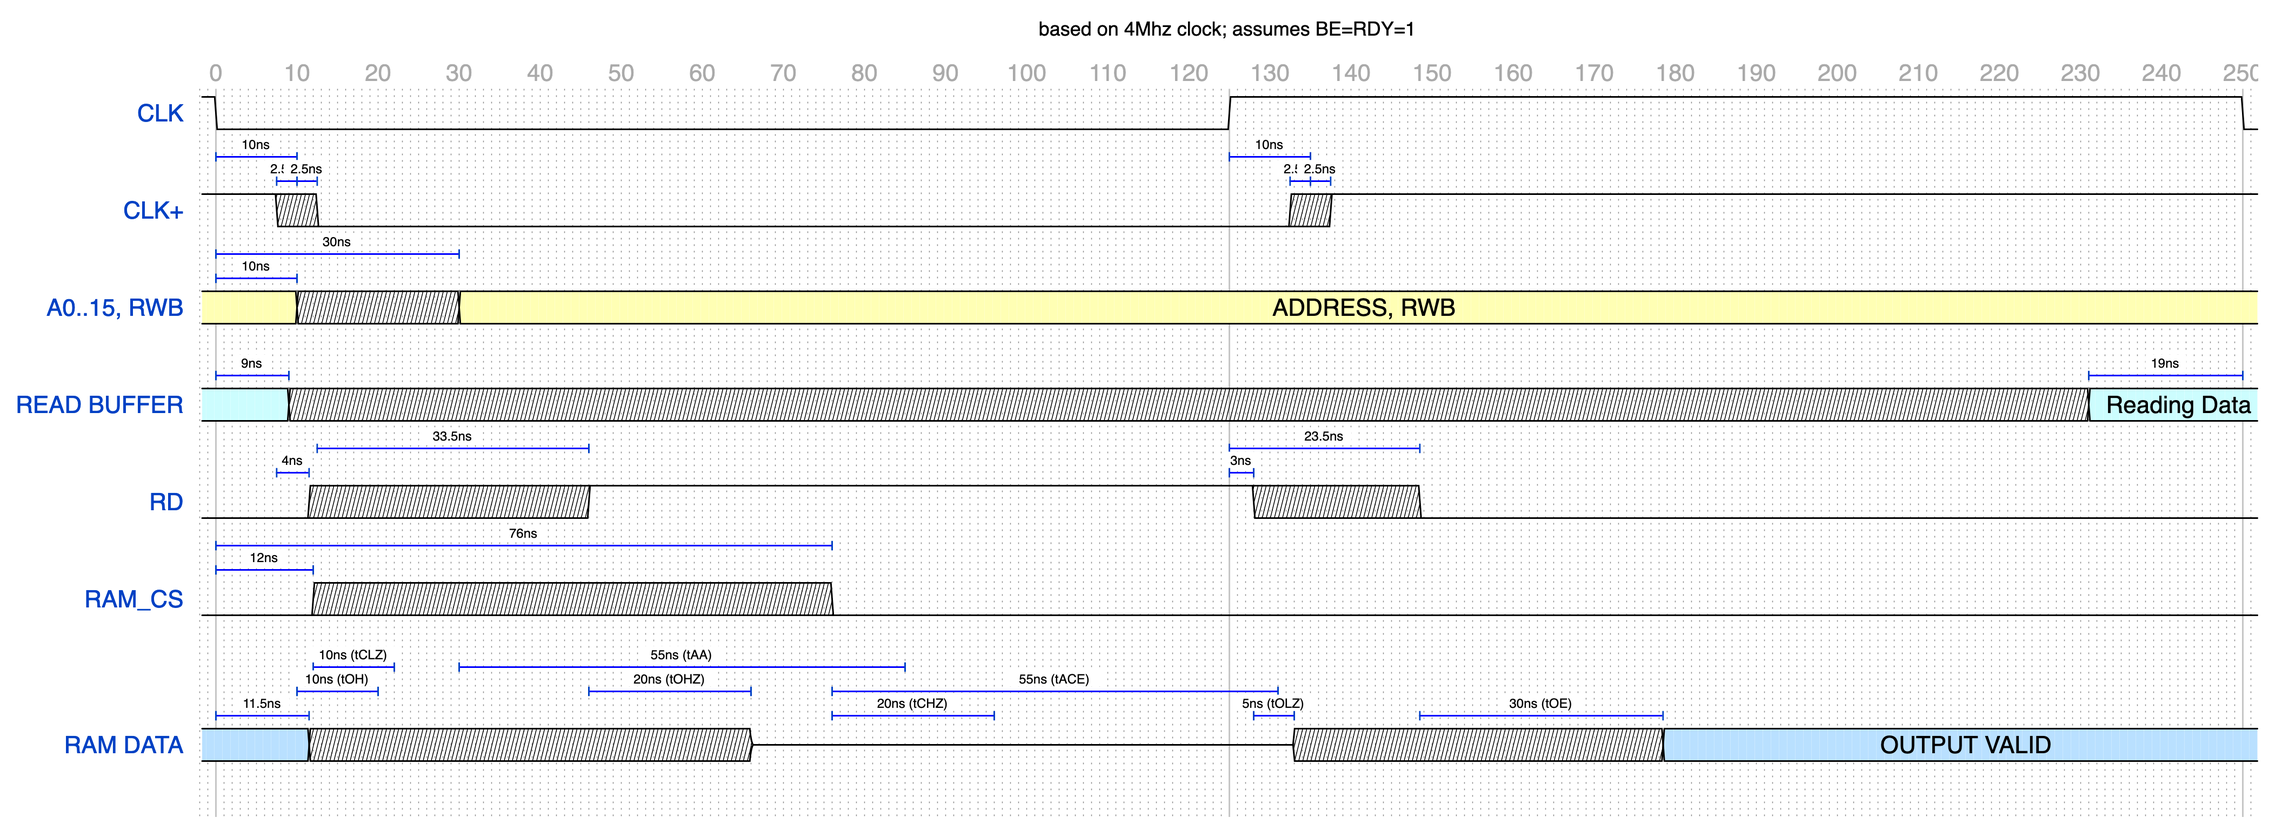
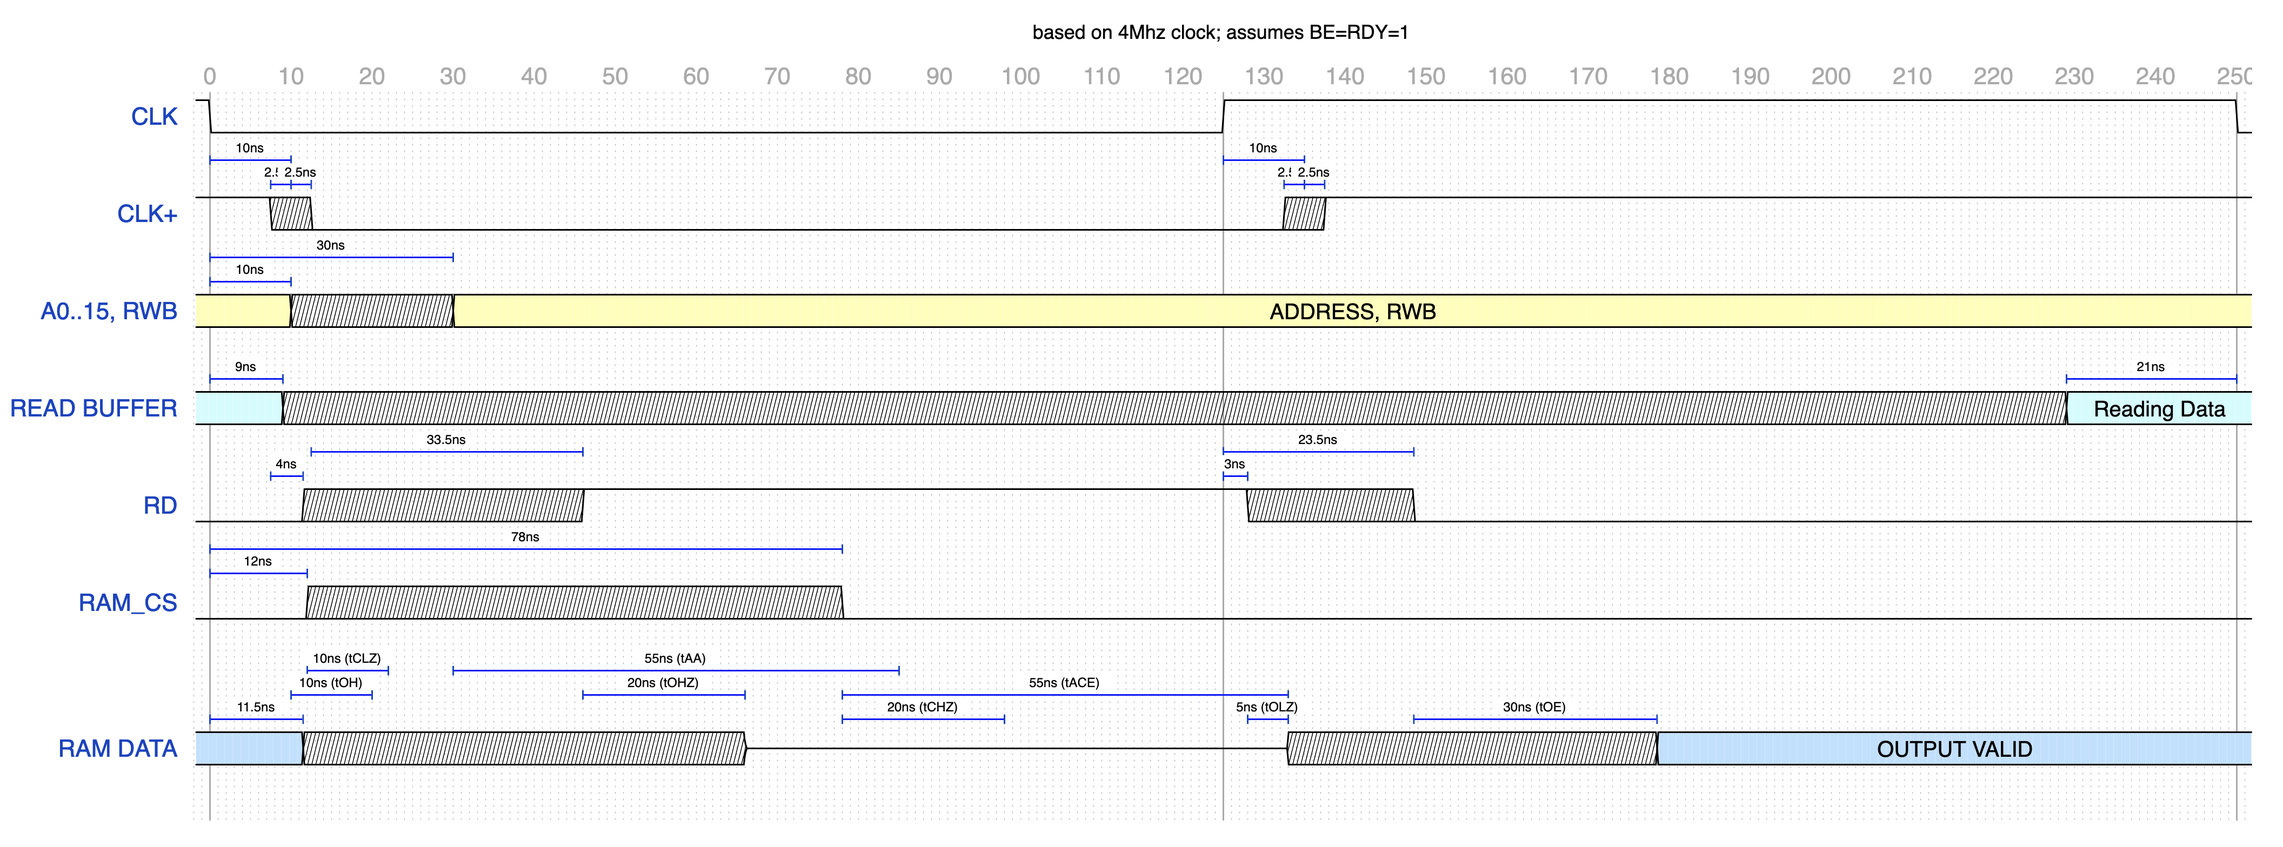
Snapshot ep 24 work

diff --git a/README.md b/README.md
@@ -24,13 +24,13 @@ The goals of the YouTube series are to provide a good description of all the des
 
 [![Top-level schematic](./schematics/main.png)](./schematics/main.png)
 
-### Clock module
+### CPU breakout
 
-[![Clock module](./schematics/clock.png)](./schematics/clock.png)
+[![CPU breakout](./schematics/breakout.png)](./schematics/breakout.png)
 
-### Reset module
+### Clock and Reset module
 
-[![Reset module](./schematics/reset.png)](./schematics/reset.png)
+[![Clock and Reset module](./schematics/clock_reset.png)](./schematics/clock_reset.png)
 
 ### Glue Logic module
 
@@ -44,13 +44,9 @@ The goals of the YouTube series are to provide a good description of all the des
 
 [![Memory module](./schematics/memory.png)](./schematics/memory.png)
 
-### GPIO module
+### Debug Clock module
 
-[![GPIO module](./schematics/gpio.png)](./schematics/gpio.png)
-
-### Peripherals module
-
-[![Peripherals module](./schematics/peripherals.png)](./schematics/peripherals.png)
+[![Debug Clock module](./schematics/debug_clock.png)](./schematics/debug_clock.png)
 
 ### Debug module
 
@@ -59,6 +55,14 @@ The goals of the YouTube series are to provide a good description of all the des
 ### Monitor module
 
 [![Monitor module](./schematics/monitor.png)](./schematics/monitor.png)
+
+### GPIO module
+
+[![GPIO module](./schematics/gpio.png)](./schematics/gpio.png)
+
+### Peripherals module
+
+[![Peripherals module](./schematics/peripherals.png)](./schematics/peripherals.png)
 
 ### Tester module
 
@@ -238,7 +242,7 @@ Uses [custom fork](https://github.com/adrienkohlbecker/wavedrom)
     { nodes: ['..K(33)C(92)Σ(30)I', '..Ρ(10)L(23)C(92)M(10)N'], phase: 0.90 },
     { name: 'CPU D0-D7 (write)', wave: '6(12)x(23)7(102)x(20)6(97)', data: ['Wr Data', 'Bank Address', 'Write Data'], phase: 0.20 },
     { nodes: ['...(12.5)Я(17)P(95.5)Τ(8.5)S', '...(7.5)J(2)O..(113.5)Q(1)R'], phase: 0.90 },
-    { name: 'AHC573 LE', wave: '0..(9.5)x(20)1(96.5)x(7.5)0(118.5)', node: '..(123.5)É(3.5)È.(6.5)À(1.5)Ç', phase: 0.20, nphase: 0.90, nyoffset: -6 },
+    { name: '/READ_CLOCK', wave: '0..(9.5)x(20)1(96.5)x(7.5)0(118.5)', node: '..(123.5)É(3.5)È.(6.5)À(1.5)Ç', phase: 0.20, nphase: 0.90, nyoffset: -6 },
     { nodes: ['..(34)Υ(11)Z'], phase: 0.90 },
     { nodes: ['...(33)X(1)Y', '...(9.5)T(1)U(19)V(12)W'], phase: 0.90 },
     { name: 'BA0-BA7', wave: '7..(10.5)x(33.5)7(208)', data: ['BA', 'Bank Address'], phase: 0.20 },
@@ -292,8 +296,8 @@ Uses [custom fork](https://github.com/adrienkohlbecker/wavedrom)
     { name: 'AHCT245 OUT', wave: '2..(11)x(36.5)2(202.5)..', data: ['DIR valid', 'DIR valid'], phase: 0.20 },
     { nodes: ['...(11)(2.5)І(16.5)Л(97)(11)(2.5)Ѣ(15)Ц', '...(7.5)Й(2)К(116.5)(7.5)П(2)Ф'], phase: 0.9 },
     { name: 'AHCT245 OE', wave: '0..(9.5)x(19.5)1(105.5)x(18)0(97.5)..', data: ['RWB', 'RWB'], phase: 0.20 },
-    { node: '...(9.5)Ч(1)Ш(18.5)Щ(17.5)Ъ(88)Ы(1.5)Ь(16.5)Э(17)Ю', phase: 0.9 },
-    { name: 'AHCT245 OUT', wave: '2..(10.5)x(36)2(96)x(27)2(80.5)..', data: ['ON', 'OFF', 'ON'], phase: 0.20 },
+    { node: '...(9.5)Ч(1)Ш(18.5)Щ(17.5)Ъ(88)Ы(1)Ь(17)Э(17)Ю', phase: 0.9 },
+    { name: 'AHCT245 OUT', wave: '2..(10.5)x(36)2(89)x(34)2(80.5)..', data: ['ON', 'OFF', 'ON'], phase: 0.20 },
     { nodes: ['..Ε(10)Δ', '..(10)Φ(1)Έ(219)Ζ(11)Η(10)Ή'], phase: 0.9 },
     { name: 'AHCT245 OUT (read)', wave: '2..(9)x(220)2(21)..', data: ['Rd Data', 'Read Data'], phase: 0.20 },
     { node: '..Θ(10)Ι(1)Ί(114)Κ(30)Λ(11)Μ', phase: 0.9 },
@@ -310,7 +314,7 @@ Uses [custom fork](https://github.com/adrienkohlbecker/wavedrom)
     'Б+Г 10ns', 'Ύ+Д 30ns',
     'Ё+Ж 1ns', 'З+И 17.5ns',
     'Й+К 2ns', 'І+Л 16.5ns', 'П+Ф 2ns', 'Ѣ+Ц 15ns',
-    'Ч+Ш 1ns', 'Щ+Ъ 17.5ns', 'Ы+Ь 1.5ns', 'Э+Ю 17ns',
+    'Ч+Ш 1ns', 'Щ+Ъ 17.5ns', 'Ы+Ь 1ns', 'Э+Ю 17ns',
     'Ε+Δ 10ns', 'Φ+Έ 1ns', 'Ζ+Η 11ns', 'Η+Ή 10ns',
     'Θ+Ι 10ns', 'Ι+Ί 1ns', 'Κ+Λ 30ns', 'Λ+Μ 11ns',
     'Z+R 9ns', 'P+J 21ns', 'T+Y 10.5ns', 'U+O 44.5ns'
@@ -346,21 +350,21 @@ Uses [custom fork](https://github.com/adrienkohlbecker/wavedrom)
     { name: 'CLK', wave: '1.0(100)1.', phase: 0.20 },
     { nodes: ['..Ѳ(30)Ѵ', '..Α(10)Γ'], phase: 0.45 },
     { name: 'A[0..15]', wave: '3..(10)x(20)3(70)..', data: ['', 'Address'], phase: 0.20 },
-    { nodes: ['..Β(44.5)Ξ', '..Ν(11.5)Ά'], phase: 0.45 },
-    { name: 'A[16..23]', wave: '7..(11.5)x(33)7(57.5)', data: ['', 'Bank Address'], phase: 0.20 },
-    { nodes: ['..Ο(70)Ό', '..A(12.5)D'], phase: 0.45 },
-    { name: 'EXTRAM_CS', wave: '8..(12.5)x(57.5)8(32)', data: ['', 'Extended RAM'], phase: 0.20 },
-    { nodes: ['..B(76)Π', '..E(12)F'], phase: 0.45 },
-    { name: 'ROM_CS', wave: '8..(12)x(64)8(26)', data: ['', 'ROM'], phase: 0.20 },
-    { nodes: ['..G(79)H', '..Ρ(11)L'], phase: 0.45 },
-    { name: 'IO_CS', wave: '8..(11)x(68)8(23)', data: ['', 'I/O'], phase: 0.20 },
-    { nodes: ['..K(76)C', '..M(12)N'], phase: 0.45 },
-    { name: 'RAM_CS', wave: '8..(12)x(64)8(26)', data: ['', 'RAM'], phase: 0.20 },
+    { nodes: ['..Β(44)Ξ', '..Ν(10.5)Ά'], phase: 0.45 },
+    { name: 'A[16..23]', wave: '7..(10.5)x(33.5)7(58)', data: ['', 'Bank Address'], phase: 0.20 },
+    { nodes: ['..Ο(69.5)Ό', '..A(11.5)D'], phase: 0.45 },
+    { name: 'EXTRAM_CS', wave: '8..(11.5)x(58)8(32.5)', data: ['', 'Extended RAM'], phase: 0.20 },
+    { nodes: ['..B(78)Π', '..E(12)F'], phase: 0.45 },
+    { name: 'ROM_CS', wave: '8..(12)x(66)8(24)', data: ['', 'ROM'], phase: 0.20 },
+    { nodes: ['..G(81)H', '..Ρ(11)L'], phase: 0.45 },
+    { name: 'IO_CS', wave: '8..(11)x(70)8(21)', data: ['', 'I/O'], phase: 0.20 },
+    { nodes: ['..K(78)C', '..M(12)N'], phase: 0.45 },
+    { name: 'RAM_CS', wave: '8..(12)x(66)8(24)', data: ['', 'RAM'], phase: 0.20 },
   ],
   edge: [
-    'Ѳ+Ѵ 30ns', 'Α+Γ 10ns', 'Ν+Ά 11.5ns', 'Β+Ξ 44.5ns', 'Ο+Ό 70ns',
-    'A+D 12.5ns', 'B+Π 76ns', 'E+F 12ns', 'G+H 79ns',
-    'Ρ+L 11ns', 'K+C 76ns', 'M+N 12ns',
+    'Ѳ+Ѵ 30ns', 'Α+Γ 10ns', 'Ν+Ά 10.5ns', 'Β+Ξ 44ns', 'Ο+Ό 69.5ns',
+    'A+D 11.5ns', 'B+Π 78ns', 'E+F 12ns', 'G+H 81ns',
+    'Ρ+L 11ns', 'K+C 78ns', 'M+N 12ns',
   ],
   config: {
     skin: 'narrower',
@@ -395,20 +399,20 @@ Uses [custom fork](https://github.com/adrienkohlbecker/wavedrom)
     { name: 'CPU ADDR & RWB', wave: '7....x(25)9(15)x(25)7(15)x(2)', data:['ON', 'OFF', 'ON'], phase: 0.20 },
     { nodes: ['.....Ά(8.5)Ν(31.5)M(8.5)N', '.....Α(1)Γ(39)K(1)C'], phase: 0.45 },
     { name: '!BE', wave: '0.....(1)x(7.5)1(32.5)x(7.5)0(32.5)x(1)', phase: 0.20 },
-    { nodes: ['......(8.5)Β(12)Ξ(28)J(10)O', '......(1)Ο(1.5)Ό(38.5)Σ(2)I'], phase: 0.45 },
-    { name: 'AC563 OUT', wave: '7.....(2.5)x(18)9(22.5)x(15.5)7(23.5)', data:['ON', 'OFF', 'ON'], phase: 0.20 },
-    { nodes: ['.....A(8.5)D(31.5)Q(8.5)R', '.....B(1)Π(39)Я(1)P'], phase: 0.45 },
-    { name: 'ACT245 OE', wave: '0.....(1)x(7.5)1(32.5)x(7.5)0(32.5)x(1)', phase: 0.20 },
-    { nodes: ['......(8.5)E(11)F(29)T(12)U', '......(1)G(1)H(39)Τ(1.5)S'], phase: 0.45 },
-    { name: 'ACT245 OUT', wave: '7.....(2)x(17.5)9(23)x(18)7(21.5)', data:['ON', 'OFF', 'ON'], phase: 0.20 },
+    { nodes: ['......(8.5)Β(12)Ξ(28)J(12)O', '......(1)Ο(1)Ό(39)Σ(1)I'], phase: 0.45 },
+    { name: 'AHC573 OUT', wave: '7.....(2)x(18.5)9(21.5)x(18.5)7(21.5)', data:['ON', 'OFF', 'ON'], phase: 0.20 },
+    { nodes: ['.....A(8)D(32)Q(6.5)R', '.....B(1)Π(39)Я(1)P'], phase: 0.45 },
+    { name: 'AHCT245 OE', wave: '0.....(1)x(7)1(33)x(5.5)0(34.5)x(1)', phase: 0.20 },
+    { nodes: ['......(8.5)E(17.5)F(20.5)T(17)U', '......(1)G(1)H(39)Τ(1.5)S'], phase: 0.45 },
+    { name: 'AHCT245 OUT', wave: '7.....(2)x(24)9(16.5)x(21)7(18.5)', data:['ON', 'OFF', 'ON'], phase: 0.20 },
     { nodes: ['......(8.5)V(10)W(30)Б(8)Г', '......(1)X(1)Y(39)Ύ(1)Д'], phase: 0.45 },
     { name: 'RD & WR', wave: '7.....(2)x(16.5)9(23.5)x(14.5)7(25.5)', data:['ON', 'OFF', 'ON'], phase: 0.20 },
   ],
   edge: [
-    'Ѳ+Ѵ 25ns', 'Α+Γ 1ns', 'Ά+Ν 8.5ns', 'Ο+Ό 1.5ns', 'Ξ+Β 12ns',
-    'B+Π 1ns', 'A+D 8.5ns', 'G+H 1ns','E+F 11ns',
-    'Ρ+L 25ns', 'K+C 1ns', 'M+N 8.5ns', 'Σ+I 2ns', 'J+O 10ns',
-    'Я+P 1ns', 'Q+R 8.5ns', 'Τ+S 1.5ns','T+U 12ns',
+    'Ѳ+Ѵ 25ns', 'Α+Γ 1ns', 'Ά+Ν 8.5ns', 'Ο+Ό 1ns', 'Ξ+Β 12ns',
+    'B+Π 1ns', 'A+D 8ns', 'G+H 1ns','E+F 17.5ns',
+    'Ρ+L 25ns', 'K+C 1ns', 'M+N 8.5ns', 'Σ+I 1ns', 'J+O 12ns',
+    'Я+P 1ns', 'Q+R 6.5ns', 'Τ+S 1ns','T+U 17ns',
     'V+W 10ns', 'X+Y 1ns', 'Б+Г 8ns', 'Ύ+Д 1ns',
   ],
   config: {
@@ -439,36 +443,34 @@ Uses [custom fork](https://github.com/adrienkohlbecker/wavedrom)
 ```js
 {
   signal: [
-    { name: 'CLK_IN', wave: '0..(100)x(10)1(115)x(10)0(17)', phase: 0.20 },
-    { nodes: ['...(100)Ο(5)Ό(5)G(115)H(5)R(5)P', '...(105)Ν(10)Ά(115)Β(10)Ξ'], phase: 0.9 },
-    { name: 'CLK-', wave: '0..(112.5)x(5)1(120)x(5)0..(7.5)', phase: 0.20 },
-    { nodes: ['...(112.5)Ё(2.5)Ж(2.5)S(120)T(2.5)Ћ(2.5)Δ', '...(115)L(10)K(115)M(10)Σ'], phase: 0.9 },
-    { name: 'CLK', wave: '1.0(125)1(125)0.', phase: 0.20 },
-    { nodes: ['..Θ(10)Λ(115)Њ(10)Ќ', '...(7.5)Љ(2.5)Є(2.5)Υ(120)Ю(2.5)Ψ(2.5)Ω'], phase: 0.9 },
-    { name: 'CLK+', wave: '1..(7.5)x(5)0(120)x(5)1..(112.5)', phase: 0.20 },
-    {},
-    { nodes: ['..Ε(8.5)Ι(116.5)Κ(8.5)Μ', '..Ρ(1)Τ(124)Χ(1)А'], phase: 0.9 },
-    { name: '~CLK', wave: '0..(1)x(7.5)1(117.5)x(7.5)0..(115.5)x', phase: 0.20 },
+    { name: 'CLK', wave: '1.0(50)1(50)0.', phase: 0.20 },
+    { nodes: ['...(45)Ξ(5)Ο(0.5)Ό'], phase: 0.45 },
+    { name: 'RDY_IN', wave: 'z..(45)6(5.5)z(51.5)', data: ['IN'], phase: 0.20 },
+    { nodes: ['...(50)B(10.5)Π', '...(50)E(1)F'], phase: 0.45 },
+    { name: 'RDY (registered)', wave: '4..(51)x(9.5)4(41.5)', data: ['RDY (reg)', 'RDY (reg)'], phase: 0.20 },
+    { nodes: ['...(60.5)Σ(30)I'], phase: 0.45 },
+    { name: 'RDY', wave: '3..(51)x(39.5)3(11.5)', data: ['RDY', 'RDY'], phase: 0.20 },
+    { nodes: ['..Ύ(10)Д(80)Ё(10)Ж'], phase: 0.45 },
+    { name: 'RDY (cpu in)', wave: '6..(10)z(80)6(12)', data: ['RDY', 'RDY'], phase: 0.20 },
   ],
   edge: [
-    'Ν+Ά 10ns', 'Β+Ξ 10ns', 'Ο+Ό 5ns', 'Ό+G 5ns', 'H+R 5ns', 'R+P 5ns',
-    'L+K 10ns', 'M+Σ 10ns', 'Ё+Ж 2.5ns', 'Ж+S 2.5ns', 'T+Ћ 2.5ns', 'Ћ+Δ 2.5ns',
-    'Θ+Λ 10ns', 'Њ+Ќ 10ns', 'Љ+Є 2.5ns', 'Є+Υ 2.5ns', 'Ю+Ψ 2.5ns', 'Ψ+Ω 2.5ns',
-    'Ε+Ι 8.5ns', 'Κ+Μ 8.5ns', 'Ρ+Τ 1ns', 'Χ+А 1ns'
+    'Ξ+Ο 5ns', 'Ο+Ό 0.5ns',
+    'B+Π 10.5ns', 'E+F 1ns',
+    'Σ+I 30ns (approx. measured)',
+    'Ύ+Д 10ns', 'Ё+Ж 10ns',
   ],
   config: {
-    skin: 'narrowerer',
+    skin: 'narrower',
     lines: {
       offset: 2,
-      every: 125,
-      every_muted: 10,
+      every: 50
     },
-    background: 'white',
+    background: 'white'
   },
   head: {
     tick: -2,
     every: 10,
-    text: ['tspan', { "font-size": '12px' }, 'based on 4Mhz clock']
+    text: ['tspan', { "font-size": '12px' }, 'based on 10Mhz clock; assumes BE=1']
   }
 }
 ```
@@ -544,21 +546,21 @@ Uses [custom fork](https://github.com/adrienkohlbecker/wavedrom)
     { name: 'CLK+', wave: '1..(7.5)x(5)0(120)x(5)1..(112.5)', phase: 0.20 },
     { nodes: ['..Ύ(30)Д', '..Б(10)Г'], phase: 0.9 },
     { name: 'A0..15, RWB', wave: '3..(10)x(20)3(220)..', data: ['', 'ADDRESS, RWB'], phase: 0.20 },
-    { nodes: ['..Φ(9)Έ(222)Ζ(19)Η'], phase: 0.9 },
-    { name: 'READ BUFFER', wave: '6..(9)x(222)6(19)..', data: ['', 'Reading Data'], phase: 0.20 },
+    { nodes: ['..Φ(9)Έ(220)Ζ(21)Η'], phase: 0.9 },
+    { name: 'READ BUFFER', wave: '6..(9)x(220)6(21)..', data: ['', 'Reading Data'], phase: 0.20 },
     { nodes: ['...(12.5)Ѳ(33.5)Ѵ(79)V(23.5)W', '...(7.5)Α(4)Γ(113.5)X(3)Y'], phase: 0.9 },
     { name: 'RD', wave: '0..(11.5)x(34.5)1(82)x(20.5)0(103.5)', data: ['', 'ROM'], phase: 0.20 },
-    { nodes: ['..B(76)Π', '..E(12)F'], phase: 0.9 },
-    { name: 'RAM_CS', wave: '0..(12)x(64)0(176)', data: ['', 'ROM'], phase: 0.20 },
+    { nodes: ['..B(78)Π', '..E(12)F'], phase: 0.9 },
+    { name: 'RAM_CS', wave: '0..(12)x(66)0(174)', data: ['', 'ROM'], phase: 0.20 },
     { nodes: ['', '...(12)M(10)Σ(8)Ο(55)Ό'], phase: 0.9 },
-    { nodes: ['...(10)S(10)T(26)R(20)P(10)Β(55)Ξ', '..G(11.5)H(64.5)L(20)K(32)Ё(5)Ж(15.5)Ν(30)Ά'], phase: 0.9 },
+    { nodes: ['...(10)S(10)T(26)R(20)P(12)Β(55)Ξ', '..G(11.5)H(66.5)L(20)K(30)Ё(5)Ж(15.5)Ν(30)Ά'], phase: 0.9 },
     { name: 'RAM DATA', wave: '5..(11.5)x(54.5)z(67)x(45.5)5(73.5)', data: ['', 'OUTPUT VALID'], phase: 0.20 },
     { nodes: ['', ''], phase: 0.9 },
   ],
   edge: [
     'Б+Г 10ns', 'Ύ+Д 30ns',
-    'Φ+Έ 9ns', 'Ζ+Η 19ns',
-    'B+Π 76ns', 'E+F 12ns',
+    'Φ+Έ 9ns', 'Ζ+Η 21ns',
+    'B+Π 78ns', 'E+F 12ns',
     'Ѳ+Ѵ 33.5ns', 'Α+Γ 4ns', 'V+W 23.5ns', 'X+Y 3ns',
     'Ν+Ά 30ns (tOE)',
     'Β+Ξ 55ns (tACE)',
@@ -602,12 +604,12 @@ Uses [custom fork](https://github.com/adrienkohlbecker/wavedrom)
     { name: 'CLK_IN', wave: '0..(100)x(10)1(115)x(10)0(17)', phase: 0.20 },
     { nodes: ['..Ύ(30)Д', '..Б(10)Г'], phase: 0.9 },
     { name: 'A0..15, RWB', wave: '3..(10)x(20)3(220)..', data: ['', 'ADDRESS, RWB'], phase: 0.20 },
-    { nodes: ['..Φ(10.5)Έ(114.5)Ζ(39.5)Η'], phase: 0.9 },
-    { name: 'WRITE BUFFER', wave: '6..(10.5)x(154)6(85.5)..', data: ['', 'Writing Data'], phase: 0.20 },
-    { nodes: ['..B(76)Π', '..E(12)F'], phase: 0.9 },
-    { name: 'RAM_CS', wave: '0..(12)x(64)0(176)', data: ['', 'ROM'], phase: 0.20 },
+    { nodes: ['..Φ(10.5)Έ(114.5)Ζ(44.5)Η'], phase: 0.9 },
+    { name: 'WRITE BUFFER', wave: '6..(10.5)x(159)6(80.5)..', data: ['', 'Writing Data'], phase: 0.20 },
+    { nodes: ['..B(78)Π', '..E(12)F'], phase: 0.9 },
+    { name: 'RAM_CS', wave: '0..(12)x(66)0(174)', data: ['', 'ROM'], phase: 0.20 },
     { nodes: ['...(30)U(55)V', '...(30)Ο(50)Ό'], phase: 0.9 },
-    { nodes: ['...(76)Β(50)Ξ', '...(10)P(0)Q(93)I(0)J(30.5)M(45)N',], phase: 0.9 },
+    { nodes: ['...(78)Β(50)Ξ', '...(10)P(0)Q(93)I(0)J(30.5)M(45)N',], phase: 0.9 },
     { nodes: ['', 'Ѳ(12)Ѵ(90)Α(3)Γ(7)R(23.5)S(91.5)C(3)D(7)Ψ(17)Ω'], phase: 0.9 },
     { name: 'WR', wave: 'x..(10)1(93)x(30.5)0(94.5)x(24)', data: ['', 'ROM'], phase: 0.20 },
     { nodes: ['...(10)G(0)H(193)L(25)K'], phase: 0.9 },
@@ -615,8 +617,8 @@ Uses [custom fork](https://github.com/adrienkohlbecker/wavedrom)
   ],
   edge: [
     'Б+Г 10ns', 'Ύ+Д 30ns',
-    'Φ+Έ 10.5ns', 'Ζ+Η 39.5ns',
-    'B+Π 76ns', 'E+F 12ns',
+    'Φ+Έ 10.5ns', 'Ζ+Η 44.5ns',
+    'B+Π 78ns', 'E+F 12ns',
     'Ѳ+Ѵ 25ns', 'Α+Γ 3ns',
     'Β+Ξ 50ns (tCW)', 'Ο+Ό 50ns (tAW)',
     'G+H 0ns (tDH)','L+K 25ns (tDW)', 'Ч+Ш 25ns (tDW)',
@@ -659,21 +661,21 @@ Uses [custom fork](https://github.com/adrienkohlbecker/wavedrom)
     { name: 'CLK+', wave: '1..(7.5)x(5)0(120)x(5)1..(112.5)', phase: 0.20 },
     { nodes: ['..Ύ(30)Д', '..Б(10)Г'], phase: 0.9 },
     { name: 'A0..15, RWB', wave: '3..(10)x(20)3(220)..', data: ['', 'ADDRESS, RWB'], phase: 0.20 },
-    { nodes: ['..Φ(9)Έ(222)Ζ(19)Η'], phase: 0.9 },
-    { name: 'READ BUFFER', wave: '6..(9)x(222)6(19)..', data: ['', 'Reading Data'], phase: 0.20 },
+    { nodes: ['..Φ(9)Έ(220)Ζ(21)Η'], phase: 0.9 },
+    { name: 'READ BUFFER', wave: '6..(9)x(220)6(21)..', data: ['', 'Reading Data'], phase: 0.20 },
     { nodes: ['...(12.5)Ѳ(33.5)Ѵ(79)V(23.5)W', '...(7.5)Α(4)Γ(113.5)X(3)Y'], phase: 0.9 },
     { name: 'RD', wave: '0..(11.5)x(34.5)1(82)x(20.5)0(103.5)', data: ['', 'ROM'], phase: 0.20 },
-    { nodes: ['..B(70)Π', '..E(12.5)F'], phase: 0.9 },
-    { name: 'RAM_CS', wave: '0..(12.5)x(57.5)0(176)', data: ['', 'ROM'], phase: 0.20 },
+    { nodes: ['..B(69.5)Π', '..E(11.5)F'], phase: 0.9 },
+    { name: 'RAM_CS', wave: '0..(11.5)x(58)0(182.5)', data: ['', 'ROM'], phase: 0.20 },
     { nodes: ['', '...(12.5)M(10)Σ(7.5)Ο(55)Ό'], phase: 0.9 },
-    { nodes: ['...(10)S(10)T(26)R(20)P(4)Β(55)Ξ', '..G(11.5)H(58.5)L(20)K(38)Ё(5)Ж(15.5)Ν(30)Ά'], phase: 0.9 },
+    { nodes: ['...(10)S(10)T(26)R(20)P(3.5)Β(55)Ξ', '..G(11.5)H(58)L(20)K(38.5)Ё(5)Ж(15.5)Ν(30)Ά'], phase: 0.9 },
     { name: 'EXTRAM DATA', wave: '5..(11.5)x(54.5)z(67)x(45.5)5(73.5)', data: ['', 'OUTPUT VALID'], phase: 0.20 },
     { nodes: ['', ''], phase: 0.9 },
   ],
   edge: [
     'Б+Г 10ns', 'Ύ+Д 30ns',
-    'Φ+Έ 9ns', 'Ζ+Η 19ns',
-    'B+Π 70ns', 'E+F 12.5ns',
+    'Φ+Έ 9ns', 'Ζ+Η 21ns',
+    'B+Π 69.5ns', 'E+F 11.5ns',
     'Ѳ+Ѵ 33.5ns', 'Α+Γ 4ns', 'V+W 23.5ns', 'X+Y 3ns',
     'Ν+Ά 30ns (tOE)',
     'Β+Ξ 55ns (tACE)',
@@ -717,12 +719,12 @@ Uses [custom fork](https://github.com/adrienkohlbecker/wavedrom)
     { name: 'CLK_IN', wave: '0..(100)x(10)1(115)x(10)0(17)', phase: 0.20 },
     { nodes: ['..Ύ(30)Д', '..Б(10)Г'], phase: 0.9 },
     { name: 'A0..15, RWB', wave: '3..(10)x(20)3(220)..', data: ['', 'ADDRESS, RWB'], phase: 0.20 },
-    { nodes: ['..Φ(10.5)Έ(114.5)Ζ(39.5)Η'], phase: 0.9 },
-    { name: 'WRITE BUFFER', wave: '6..(10.5)x(154)6(85.5)..', data: ['', 'Writing Data'], phase: 0.20 },
-    { nodes: ['..B(70)Π', '..E(12.5)F'], phase: 0.9 },
-    { name: 'RAM_CS', wave: '0..(12.5)x(57.5)0(182)', data: ['', 'ROM'], phase: 0.20 },
+    { nodes: ['..Φ(10.5)Έ(114.5)Ζ(44.5)Η'], phase: 0.9 },
+    { name: 'WRITE BUFFER', wave: '6..(10.5)x(159)6(80.5)..', data: ['', 'Writing Data'], phase: 0.20 },
+    { nodes: ['..B(69.5)Π', '..E(11.5)F'], phase: 0.9 },
+    { name: 'RAM_CS', wave: '0..(11.5)x(58)0(182.5)', data: ['', 'ROM'], phase: 0.20 },
     { nodes: ['...(30)U(55)V', '...(30)Ο(50)Ό'], phase: 0.9 },
-    { nodes: ['...(70)Β(50)Ξ', '...(10)P(0)Q(93)I(0)J(30.5)M(45)N',], phase: 0.9 },
+    { nodes: ['...(69.5)Β(50)Ξ', '...(10)P(0)Q(93)I(0)J(30.5)M(45)N',], phase: 0.9 },
     { nodes: ['', 'Ѳ(12)Ѵ(90)Α(3)Γ(7)R(23.5)S(91.5)C(3)D(7)Ψ(17)Ω'], phase: 0.9 },
     { name: 'WR', wave: 'x..(10)1(93)x(30.5)0(94.5)x(24)', data: ['', 'ROM'], phase: 0.20 },
     { nodes: ['...(10)G(0)H(193)L(25)K'], phase: 0.9 },
@@ -730,8 +732,8 @@ Uses [custom fork](https://github.com/adrienkohlbecker/wavedrom)
   ],
   edge: [
     'Б+Г 10ns', 'Ύ+Д 30ns',
-    'Φ+Έ 10.5ns', 'Ζ+Η 39.5ns',
-    'B+Π 70ns', 'E+F 12.5s',
+    'Φ+Έ 10.5ns', 'Ζ+Η 44.5ns',
+    'B+Π 69.5ns', 'E+F 11.5s',
     'Β+Ξ 50ns (tCW)', 'Ο+Ό 50ns (tAW)',
     'G+H 0ns (tDH)','L+K 25ns (tDW)', 'Ч+Ш 25ns (tDW)',
     'I+J 0ns (tAS)', 'M+N 45ns (tWP)', 'P+Q 0ns (tWR)',
@@ -774,8 +776,8 @@ Uses [custom fork](https://github.com/adrienkohlbecker/wavedrom)
     { name: 'A0..15, RWB', wave: '3..(10)x(20)3(220)..', data: ['', 'ADDRESS, RWB'], phase: 0.20 },
     { nodes: ['..W(47)X', '..Λ(12)T'], phase: 0.9 },
     { name: 'VA', wave: '1..(12)x(35)1(205)', data: ['', 'ROM'], phase: 0.20 },
-    { nodes: ['..B(79)Π', '..E(11)F'], phase: 0.9 },
-    { name: 'IO0_CS', wave: '0..(11)x(68)0(173)', data: ['', 'ROM'], phase: 0.20 },
+    { nodes: ['..B(81)Π', '..E(11)F'], phase: 0.9 },
+    { name: 'IO0_CS', wave: '0..(11)x(70)0(171)', data: ['', 'ROM'], phase: 0.20 },
     { nodes: ['..U(10)V(105)Ο(10)Ό'], phase: 0.9 },
     { name: 'VIA CONTROL VALID', wave: '5..(10)z(105)5(137)', data: ['', 'CONTROL'], phase: 0.20 },
     {},
@@ -783,13 +785,13 @@ Uses [custom fork](https://github.com/adrienkohlbecker/wavedrom)
     { name: 'PERIPH. DATA VALID', wave: 'z..(115)4(137)', data: ['PERIPHERAL DATA'], phase: 0.20 },
     { nodes: ['..G(10)H(115)L(20)K'], phase: 0.9 },
     { name: 'VIA DATA BUS', wave: '5..(10)x(135)5(107)', data: ['', 'DATA'], phase: 0.20 },
-    { nodes: ['..Φ(9)Έ(222)Ζ(19)Η'], phase: 0.9 },
-    { name: 'CPU READ BUFFER', wave: '6..(9)x(222)6(19)..', data: ['', 'Reading Data'], phase: 0.20 },
+    { nodes: ['..Φ(9)Έ(220)Ζ(21)Η'], phase: 0.9 },
+    { name: 'CPU READ BUFFER', wave: '6..(9)x(220)6(21)..', data: ['', 'Reading Data'], phase: 0.20 },
   ],
   edge: [
     'Б+Г 10ns', 'Ύ+Д 30ns',
-    'Φ+Έ 9ns', 'Ζ+Η 19ns',
-    'B+Π 79ns', 'E+F 11s',
+    'Φ+Έ 9ns', 'Ζ+Η 21ns',
+    'B+Π 81ns', 'E+F 11s',
     'G+H 10ns (tHR)','L+K 20ns (tCDR)',
     'U+V 10ns (tACR)', 'Ο+Ό 10ns (tCAR)',
     'Λ+T 12ns', 'W+X 47ns',
@@ -829,13 +831,13 @@ Uses [custom fork](https://github.com/adrienkohlbecker/wavedrom)
     { name: 'A0..15, RWB', wave: '3..(10)x(20)3(220)..', data: ['', 'ADDRESS, RWB'], phase: 0.20 },
     { nodes: ['..W(47)X', '..Λ(12)T'], phase: 0.9 },
     { name: 'VA', wave: '1..(12)x(35)1(205)', data: ['', 'ROM'], phase: 0.20 },
-    { nodes: ['..B(79)Π', '..E(11)F'], phase: 0.9 },
-    { name: 'IO0_CS', wave: '0..(11)x(68)0(173)', data: ['', 'ROM'], phase: 0.20 },
+    { nodes: ['..B(81)Π', '..E(11)F'], phase: 0.9 },
+    { name: 'IO0_CS', wave: '0..(11)x(70)0(171)', data: ['', 'ROM'], phase: 0.20 },
     { nodes: ['..U(10)V(105)Ο(10)Ό'], phase: 0.9 },
     { name: 'VIA CONTROL VALID', wave: '5..(10)z(105)5(137)', data: ['', 'CONTROL'], phase: 0.20 },
     {},
-    { nodes: ['..Φ(10.5)Έ(114.5)Ζ(39.5)Η'], phase: 0.9 },
-    { name: 'CPU WRITE BUFFER', wave: '6..(10.5)x(154)6(85.5)..', data: ['', 'Writing Data'], phase: 0.20 },
+    { nodes: ['..Φ(10.5)Έ(114.5)Ζ(44.5)Η'], phase: 0.9 },
+    { name: 'CPU WRITE BUFFER', wave: '6..(10.5)x(159)6(80.5)..', data: ['', 'Writing Data'], phase: 0.20 },
     { nodes: ['..G(10)H(230)L(10)K'], phase: 0.9 },
     { name: 'VIA DATA BUS VALID', wave: '5..(10)z(230)5(12)', data: ['', 'DATA'], phase: 0.20 },
     { nodes: ['..Β(30)Ξ'], phase: 0.9 },
@@ -843,8 +845,8 @@ Uses [custom fork](https://github.com/adrienkohlbecker/wavedrom)
   ],
   edge: [
     'Б+Г 10ns', 'Ύ+Д 30ns',
-    'Φ+Έ 10.5ns', 'Ζ+Η 39.5ns',
-    'B+Π 79ns', 'E+F 11s',
+    'Φ+Έ 10.5ns', 'Ζ+Η 44.5ns',
+    'B+Π 81ns', 'E+F 11s',
     'G+H 10ns (tHW)','L+K 10ns (tDCW)',
     'U+V 10ns (tACW)', 'Ο+Ό 10ns (tCAW)',
     'Λ+T 12ns', 'W+X 47ns',
